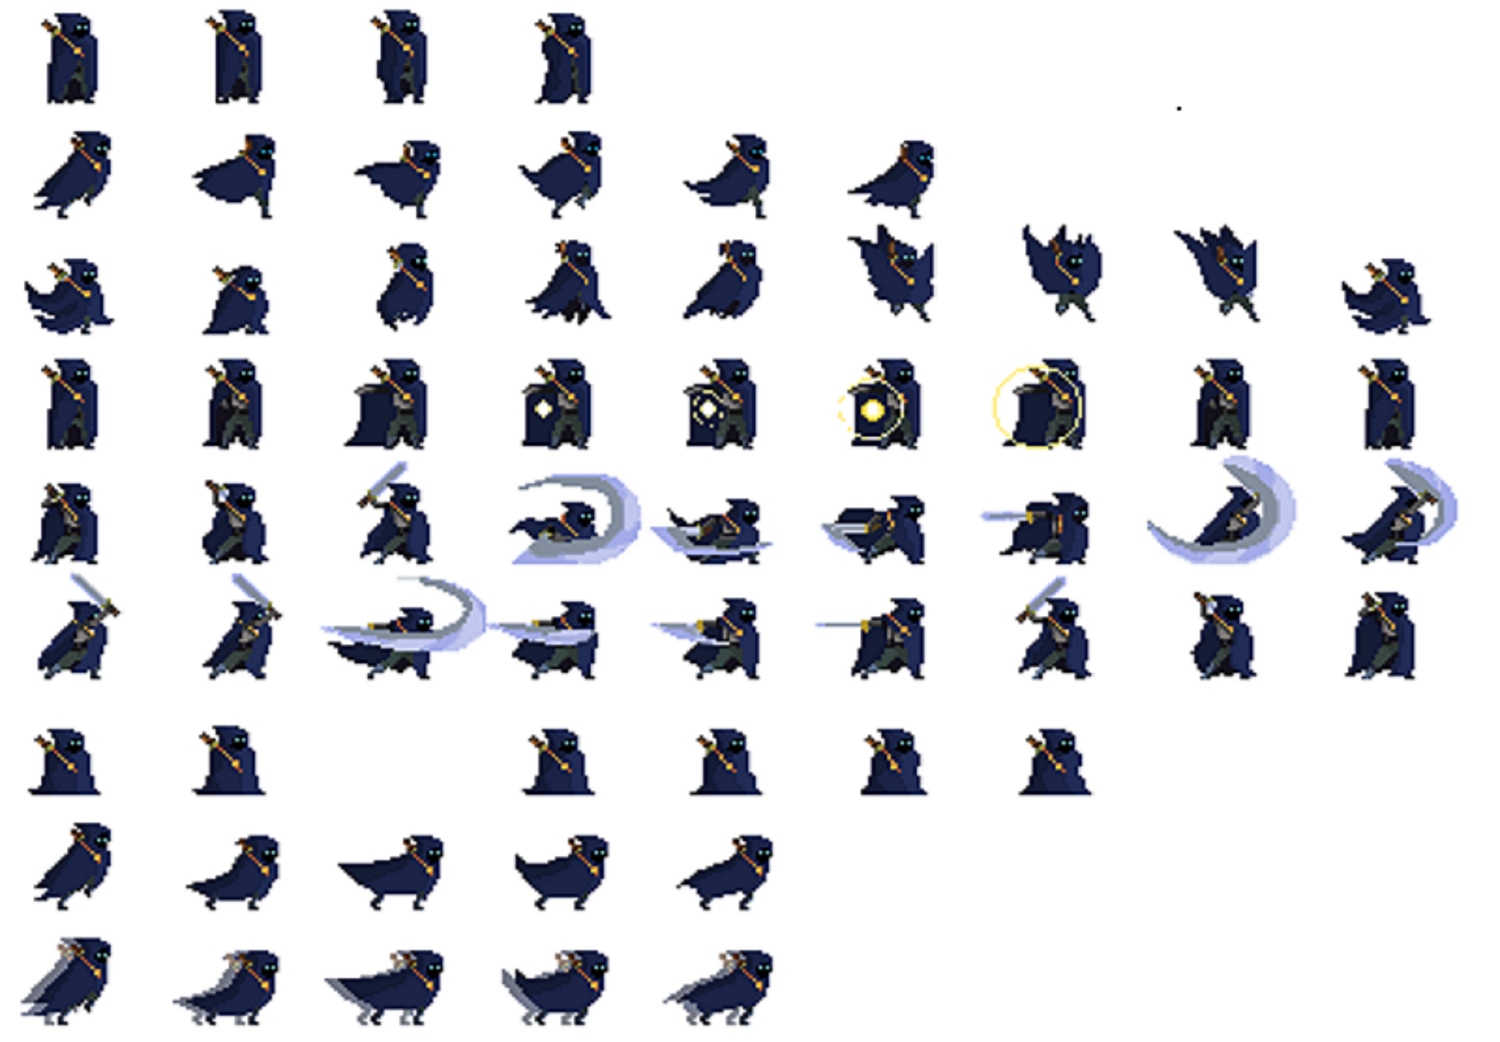
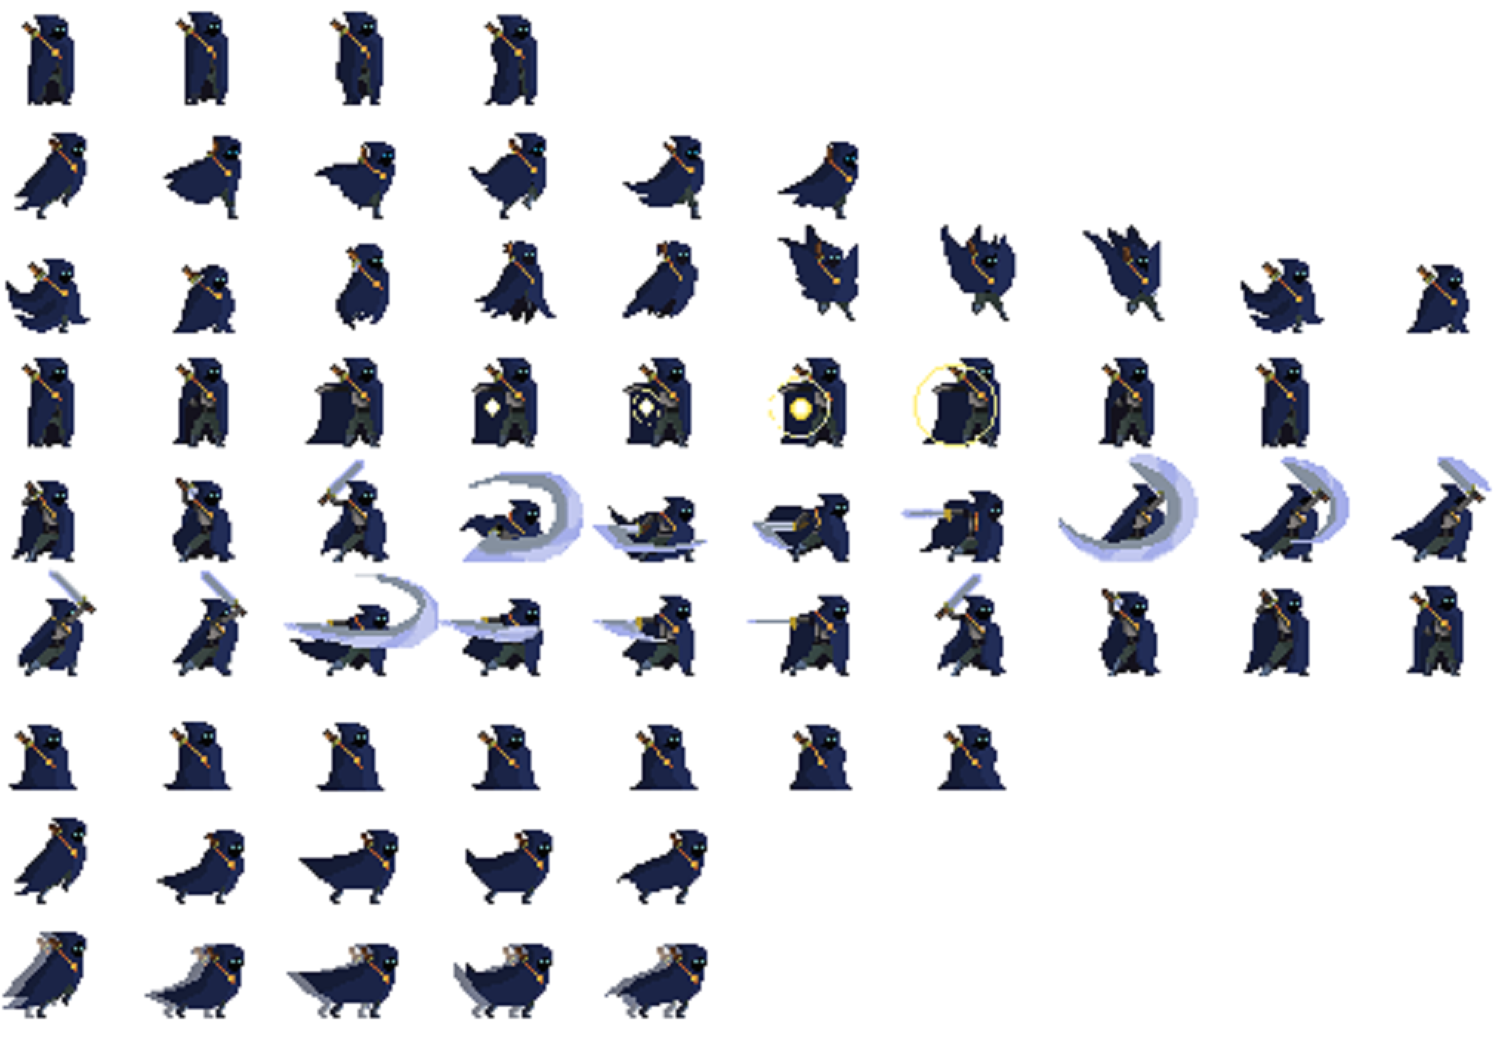
player animation done

diff --git a/playerStates.js b/playerStates.js
@@ -1,7 +1,9 @@
 const states = {
-    SITTING:0,
-    RUNNING: 1,
-    JUMPING: 2
+    STANDING:0,
+    SITTING:1,
+    RUNNING: 2,
+    JUMPING: 3,
+    ATTACKING:4,
 }
 
 class State{
@@ -9,10 +11,10 @@ class State{
         this.state = state
     }
 }
-export class Sitting extends State{
+export class Standing extends State{
     
     constructor(player){
-        super('SITTING')
+        super('STANDING')
         this.player = player
     }
     enter(){
@@ -22,8 +24,30 @@ export class Sitting extends State{
     handleInput(input){
         
         if(input.includes('ArrowRight') || input.includes('ArrowLeft')){
-            this.player.setState(states.RUNING)
+            this.player.setState(states.RUNNING)
         }
+        else if(input.includes('ArrowDown'))this.player.setState(states. SITTING)
+        else if(input.includes('ArrowUp'))this.player.setState(states.  JUMPING)
+        else if(input.includes('Control'))this.player.setState(states.  ATTACKING)
+    }
+}
+export class Sitting extends State{
+    
+    constructor(player){
+        super('SITTING')
+        this.player = player
+    }
+    enter(){
+        this.player.frameY = 6;
+    }
+
+    handleInput(input){
+        if(input.length === 0 && this.player.onGround())this.player.setState(states.STANDING)
+        else if(input.includes('ArrowRight') || input.includes('ArrowLeft')){
+            this.player.setState(states.RUNNING)
+        }
+        else if(input.includes('ArrowUp'))this.player.setState(states.  JUMPING)
+        else if(input.includes('Control'))this.player.setState(states.  ATTACKING)
     }
 }
 
@@ -39,15 +63,31 @@ export class Running extends State{
     }
     
     handleInput(input){
-        if(input.includes('ArrowDown')){
-            this.player.setState(states.SITTING)
+        if(input.length === 0  && this.player.onGround()){this.player.setState(states.SITTING)
         }
+        else if(input.includes('ArrowUp'))this.player.setState(states.  JUMPING)
+        else if(input.includes('Control'))this.player.setState(states.  ATTACKING)
     }
 }
 
-/**
- * 
- * export class Attacking extends State{
+export class Jumping extends State{
+    
+    constructor(player){
+        super('JUMPING')
+        this.player = player
+    }
+
+    enter(){
+        this.player.frameY = 2;
+    }
+    
+    handleInput(input){
+        if(input.length === 0 && this.player.onGround())this.player.setState(states.STANDING)
+        else if(input.includes('Control'))this.player.setState(states.  ATTACKING)
+    }
+}
+
+  export class Attacking extends State{
     
     constructor(player){
         super('ATTACKING')
@@ -58,8 +98,10 @@ export class Running extends State{
     }
 
     handleInput(input){
-        //if(input.includes('Control'))this.player.setState(states.ATTACKING)
+        if(input.length === 0 && this.player.onGround())this.player.setState(states.STANDING)
+        else if(input.includes('ArrowUp'))this.player.setState(states.  JUMPING)
+        
     }
 }
- * 
- */
+ 
+ 

diff --git a/player.js b/player.js
@@ -1,11 +1,10 @@
 //import { Attacking } from "./playerStates.js" 
-import { Running } from "./playerStates.js"
-import { Sitting } from "./playerStates.js";
+import { Jumping, Standing, Running, Sitting, Attacking } from "./playerStates.js";
 export class Player {
 
     constructor(game){
         this.game = game;
-        this.width = 110;
+        this.width = 150;
         this.height = 114;
         this.x = 0;
         this.y = this.game.height - this.height;
@@ -14,14 +13,18 @@ export class Player {
         this.image = document.getElementById('playerId')
         this.frameX = 0
         this.frameY = 0
+        this.maxFrame = 8
         this.speed = 0;
         this.maxSpeed = 5;
-        this.states = [ new Sitting(),new Running(this)]
+        this.fps = 20
+        this.frameInterval = 1000/this.fps
+        this.frameTimer = 0
+        this.states = [ new Standing(this), new Sitting(this),new Running(this), new Jumping(this), new Attacking(this)]
         this.currentState = this.states[0]
         this.currentState.enter()
     }
 
-    update(input){
+    update(input, deltaTime){
         this.currentState.handleInput(input)
         //Movimiento horizontal
         this.x += this.speed
@@ -37,10 +40,21 @@ export class Player {
         if(!this.onGround()) this.vy += this.weight
         else this.vy = 0
 
+        //Animation
+        if(this.frameTimer > this.frameInterval){
+            this.frameTimer = 0
+            if(this.frameX < this.maxFrame) this.frameX++
+            else this.frameX = 0
+        }else{
+            this.frameTimer += deltaTime
+        }
+        
+
     }
 
     draw(context){ 
-        context.drawImage(this.image, this.frameX * this.width, this.frameY * this.height, this.width, this.height,  this.x, this.y, this.width, this.height )
+        context.drawImage(this.image, this.frameX * this.width, this.frameY * this.height, 
+            this.width, this.height,  this.x, this.y, this.width, this.height )
         
        
     }

diff --git a/index.js b/index.js
@@ -22,8 +22,8 @@ window.addEventListener("load", function(){
         }
 
         //Metódo donde hare update de todos los objetos del juego
-        update(){
-            this.player.update(this.input.keys)
+        update(deltaTime){
+            this.player.update(this.input.keys, deltaTime)
         }
 
         //Método donde pintar todos lo objetos del juego
@@ -33,14 +33,18 @@ window.addEventListener("load", function(){
 
     }
     const game = new Game(canvas.width, canvas.height)
+    let lastTime = 0
+
     
     /**Animation loop esto hara que se inicie el juego y se refrsque 60fps*/
-    function animate(){
+    function animate(timeStamp){
+        const deltaTime = timeStamp - lastTime
+        lastTime = timeStamp
         ctx.clearRect(0, 0, canvas.width, canvas.height)
         game.draw(ctx)
-        game.update()
+        game.update(deltaTime)
         requestAnimationFrame(animate)
     }
 
-    animate()
+    animate(0)
 });
